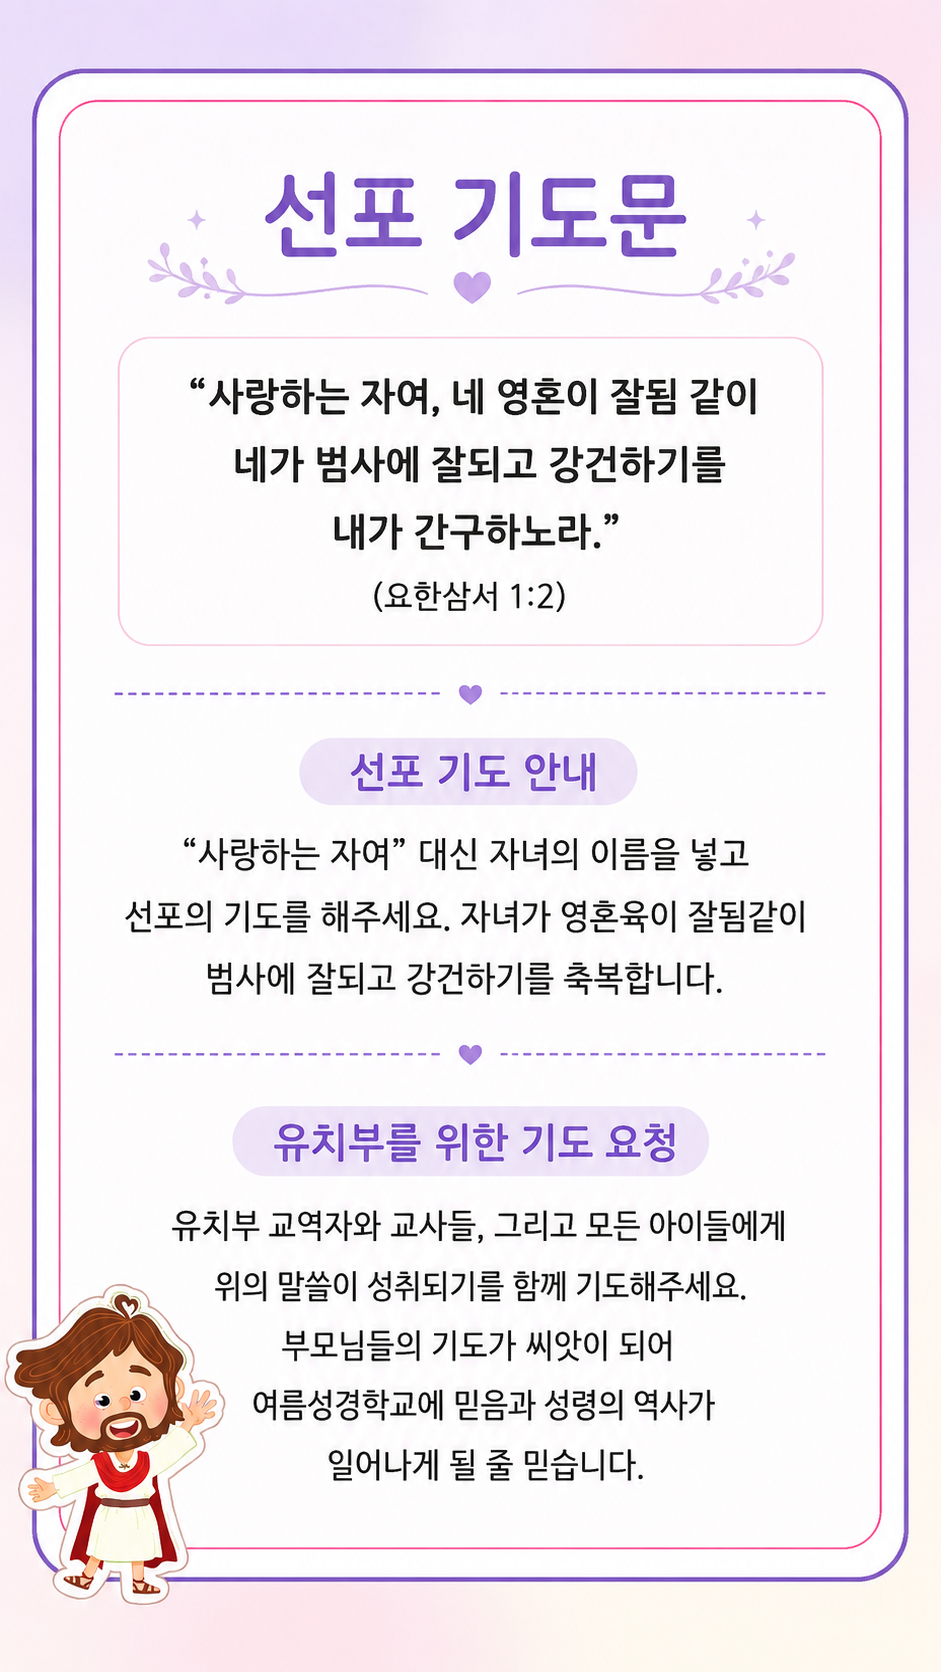
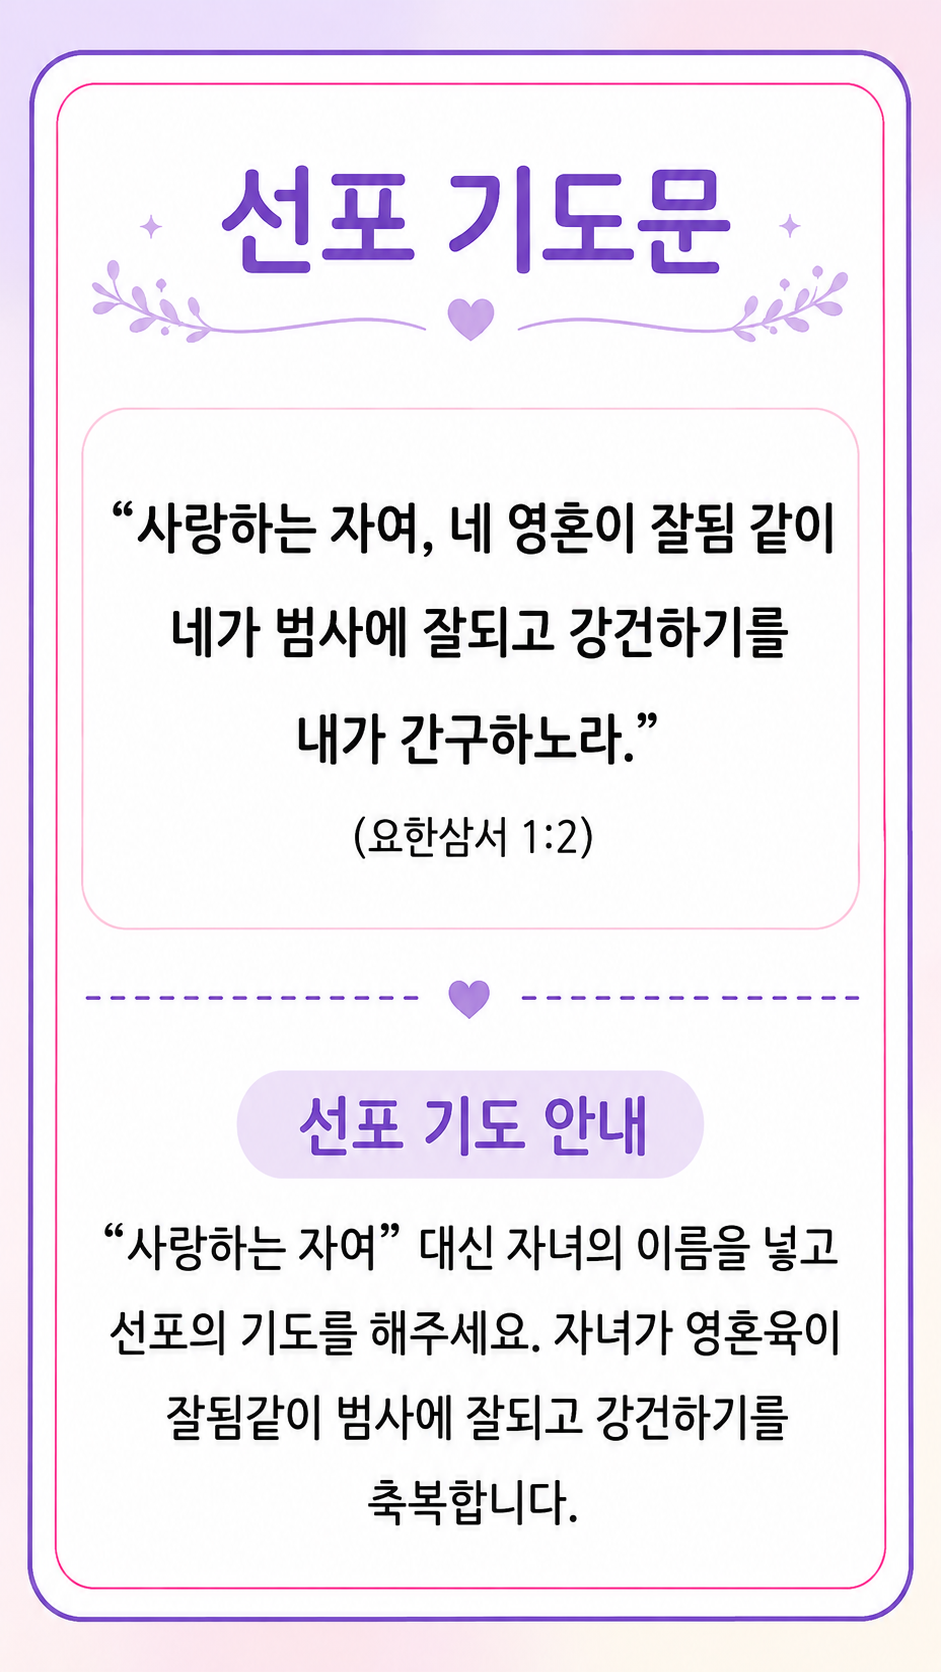
Support three prayer image pages

Changed region(s): [[0.0, 0.0311, 0.9862, 0.9952], [0.8629, 0.2177, 0.8937, 0.2488]]

diff --git a/src/App.tsx b/src/App.tsx
@@ -634,6 +634,16 @@ function PrayerScreen({
     setCollecting(false)
   }, [day.dayIndex])
 
+  useEffect(() => {
+    if (!published) return
+    PRAYER_IMAGE_SLOTS.forEach((slot) => {
+      const src = getPrayerImage(state, day.dayIndex, slot)
+      if (!src) return
+      const preload = new Image()
+      preload.src = src
+    })
+  }, [day.dayIndex, published, state])
+
   return (
     <Panel wide>
       <BackButton onClick={onBack}>홈으로</BackButton>
@@ -667,7 +677,7 @@ function PrayerScreen({
 
             <div className="overflow-hidden rounded-3xl border border-stone-200 bg-white shadow-card">
               {image ? (
-                <img src={image} alt={`${day.monthDay} ${slotLabel(page)}`} className="h-auto w-full object-contain" />
+                <img src={image} alt={`${day.monthDay} ${slotLabel(page)}`} loading="eager" decoding="async" className="h-auto w-full object-contain" />
               ) : (
                 <div className="grid min-h-[560px] place-items-center p-6 text-center">
                   <div>
@@ -1374,5 +1384,6 @@ function StatCard({ label, value }: { label: string; value: string }) {
 
 function slotLabel(slot: PrayerImageSlot) {
   if (slot === 1) return '기도문'
-  return '말씀과 기도팁'
+  if (slot === 2) return '말씀과 기도팁'
+  return '유치부 기도요청'
 }

diff --git a/src/lib/constants.ts b/src/lib/constants.ts
@@ -106,9 +106,10 @@ export const COLLECTION_GEMS = Array.from({ length: 20 }, (_, index) => {
 export const DEV_SAMPLE_PRAYER_IMAGES = {
   1: '/images/prayers/day-01/01.png',
   2: '/images/prayers/day-01/02.png',
+  3: '/images/prayers/day-01/03.png',
 } as const
 
-export const PRAYER_IMAGE_SLOTS = [1, 2] as const
+export const PRAYER_IMAGE_SLOTS = [1, 2, 3] as const
 export type PrayerImageSlot = (typeof PRAYER_IMAGE_SLOTS)[number]
 
 export const PRAYER_DAYS: PrayerDay[] = Array.from({ length: 20 }, (_, index) => {

diff --git a/src/lib/storage.ts b/src/lib/storage.ts
@@ -286,7 +286,7 @@ export async function savePrayerImage(dayIndex: number, slot: PrayerImageSlot, f
     const extension = file.name.split('.').pop()?.toLowerCase() || 'png'
     const storagePath = `prayers/day-${String(dayIndex).padStart(2, '0')}/slot-${slot}.${extension}`
     const upload = await supabase.storage.from('prayer-images').upload(storagePath, file, {
-      cacheControl: '60',
+      cacheControl: '604800',
       upsert: true,
     })
     throwIfError(upload.error)